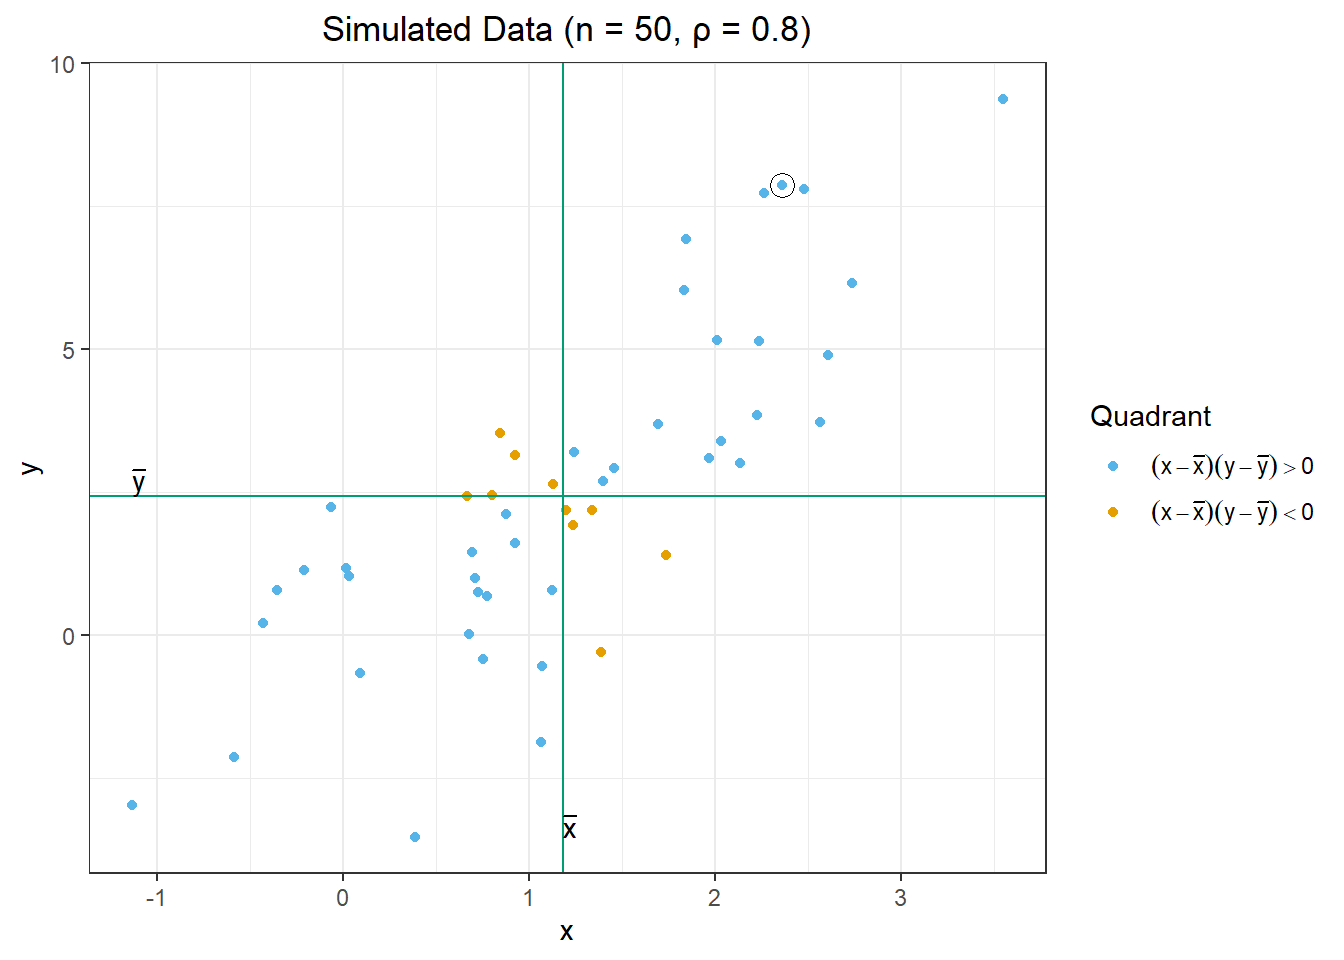
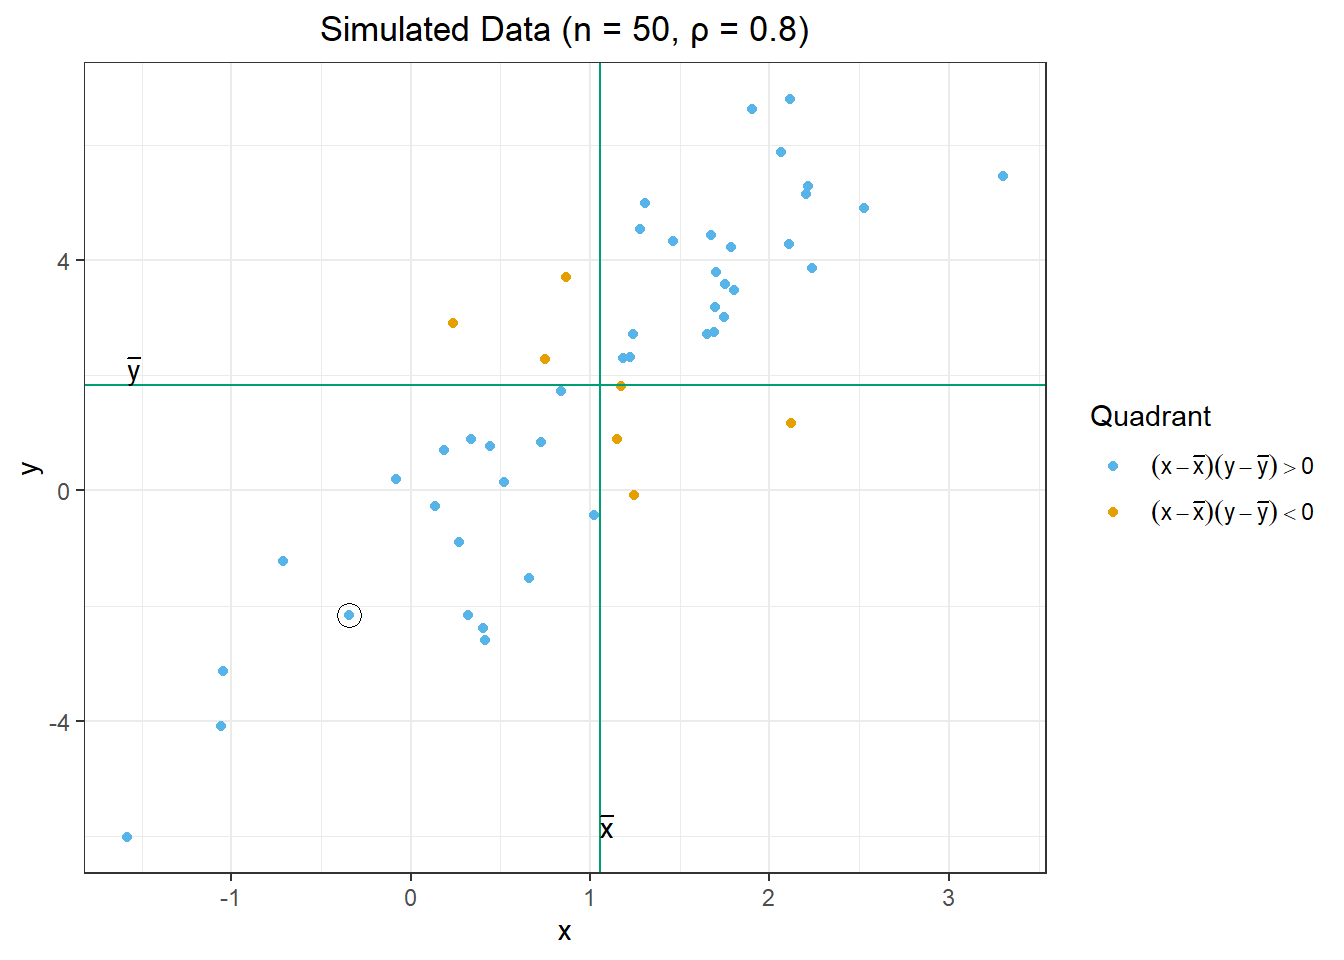
Minor changes to Chapter 2

diff --git a/class_activities/chapter_2_lesson_1_class.html b/class_activities/chapter_2_lesson_1_class.html
@@ -446,7 +446,7 @@ shinyApp(ui = ui, server = server)</code></pre>
 <span id="cb5-21"><a href="#cb5-21" aria-hidden="true" tabindex="-1"></a>  <span class="fu">data.frame</span>() <span class="sc">%&gt;%</span> </span>
 <span id="cb5-22"><a href="#cb5-22" aria-hidden="true" tabindex="-1"></a>  <span class="fu">rename</span>(<span class="at">x =</span> X1, <span class="at">y =</span> X2)</span></code><button title="Copy to Clipboard" class="code-copy-button"><i class="bi"></i></button></pre></div>
 </div>
-<p>The following table illustrates some of the simulated values. The mean of the <span class="math inline">\(x\)</span> values is <span class="math inline">\(\bar x = 1.18\)</span>. The mean of the <span class="math inline">\(y\)</span> values is <span class="math inline">\(\bar y =2.424\)</span>. We will soon use the values <span class="math inline">\((x-\bar x)\)</span>, <span class="math inline">\((x-\bar x)^2\)</span>, <span class="math inline">\((y-\bar y)\)</span>, <span class="math inline">\((y-\bar y)^2\)</span>, and <span class="math inline">\((x-\bar x)(y-\bar y)\)</span>. For convenience, they are included in the table below.</p>
+<p>The following table illustrates some of the simulated values. The mean of the <span class="math inline">\(x\)</span> values is <span class="math inline">\(\bar x = 1.057\)</span>. The mean of the <span class="math inline">\(y\)</span> values is <span class="math inline">\(\bar y =1.833\)</span>. We will soon use the values <span class="math inline">\((x-\bar x)\)</span>, <span class="math inline">\((x-\bar x)^2\)</span>, <span class="math inline">\((y-\bar y)\)</span>, <span class="math inline">\((y-\bar y)^2\)</span>, and <span class="math inline">\((x-\bar x)(y-\bar y)\)</span>. For convenience, they are included in the table below.</p>
 <div class="cell">
 <div class="cell-output-display">
 <table class="table table-sm table-striped small" data-quarto-postprocess="true">
@@ -465,63 +465,63 @@ shinyApp(ui = ui, server = server)</code></pre>
 <tbody>
 <tr class="odd">
 <td style="text-align: center;">1</td>
-<td style="text-align: center;">2.356</td>
-<td style="text-align: center;">7.868</td>
-<td style="text-align: center;">1.176</td>
-<td style="text-align: center;">1.383</td>
-<td style="text-align: center;">5.444</td>
-<td style="text-align: center;">29.641</td>
-<td style="text-align: center;"><span style="     color: #E69F00 !important;">6.402</span></td>
+<td style="text-align: center;">-0.344</td>
+<td style="text-align: center;">-2.154</td>
+<td style="text-align: center;">-1.401</td>
+<td style="text-align: center;">1.963</td>
+<td style="text-align: center;">-3.987</td>
+<td style="text-align: center;">15.897</td>
+<td style="text-align: center;"><span style="     color: #E69F00 !important;">5.586</span></td>
 </tr>
 <tr class="even">
 <td style="text-align: center;">2</td>
-<td style="text-align: center;">1.337</td>
-<td style="text-align: center;">2.181</td>
-<td style="text-align: center;">0.157</td>
-<td style="text-align: center;">0.025</td>
-<td style="text-align: center;">-0.243</td>
-<td style="text-align: center;">0.059</td>
-<td style="text-align: center;"><span style="     color: #56B4E9 !important;">-0.038</span></td>
+<td style="text-align: center;">0.334</td>
+<td style="text-align: center;">0.892</td>
+<td style="text-align: center;">-0.723</td>
+<td style="text-align: center;">0.523</td>
+<td style="text-align: center;">-0.94</td>
+<td style="text-align: center;">0.884</td>
+<td style="text-align: center;"><span style="     color: #E69F00 !important;">0.68</span></td>
 </tr>
 <tr class="odd">
 <td style="text-align: center;">3</td>
-<td style="text-align: center;">0.771</td>
-<td style="text-align: center;">0.677</td>
-<td style="text-align: center;">-0.409</td>
-<td style="text-align: center;">0.167</td>
-<td style="text-align: center;">-1.747</td>
-<td style="text-align: center;">3.052</td>
-<td style="text-align: center;"><span style="     color: #E69F00 !important;">0.714</span></td>
+<td style="text-align: center;">-1.057</td>
+<td style="text-align: center;">-4.085</td>
+<td style="text-align: center;">-2.114</td>
+<td style="text-align: center;">4.469</td>
+<td style="text-align: center;">-5.918</td>
+<td style="text-align: center;">35.02</td>
+<td style="text-align: center;"><span style="     color: #E69F00 !important;">12.51</span></td>
 </tr>
 <tr class="even">
 <td style="text-align: center;">4</td>
-<td style="text-align: center;">-0.208</td>
-<td style="text-align: center;">1.144</td>
-<td style="text-align: center;">-1.388</td>
-<td style="text-align: center;">1.928</td>
-<td style="text-align: center;">-1.28</td>
-<td style="text-align: center;">1.637</td>
-<td style="text-align: center;"><span style="     color: #E69F00 !important;">1.777</span></td>
+<td style="text-align: center;">0.321</td>
+<td style="text-align: center;">-2.164</td>
+<td style="text-align: center;">-0.736</td>
+<td style="text-align: center;">0.542</td>
+<td style="text-align: center;">-3.997</td>
+<td style="text-align: center;">15.975</td>
+<td style="text-align: center;"><span style="     color: #E69F00 !important;">2.942</span></td>
 </tr>
 <tr class="odd">
 <td style="text-align: center;">5</td>
-<td style="text-align: center;">2.032</td>
-<td style="text-align: center;">3.401</td>
-<td style="text-align: center;">0.852</td>
-<td style="text-align: center;">0.726</td>
-<td style="text-align: center;">0.977</td>
-<td style="text-align: center;">0.955</td>
-<td style="text-align: center;"><span style="     color: #E69F00 !important;">0.832</span></td>
+<td style="text-align: center;">1.243</td>
+<td style="text-align: center;">-0.087</td>
+<td style="text-align: center;">0.186</td>
+<td style="text-align: center;">0.035</td>
+<td style="text-align: center;">-1.92</td>
+<td style="text-align: center;">3.685</td>
+<td style="text-align: center;"><span style="     color: #56B4E9 !important;">-0.357</span></td>
 </tr>
 <tr class="even">
 <td style="text-align: center;">6</td>
-<td style="text-align: center;">0.841</td>
-<td style="text-align: center;">3.532</td>
-<td style="text-align: center;">-0.339</td>
-<td style="text-align: center;">0.115</td>
-<td style="text-align: center;">1.108</td>
-<td style="text-align: center;">1.228</td>
-<td style="text-align: center;"><span style="     color: #56B4E9 !important;">-0.376</span></td>
+<td style="text-align: center;">1.749</td>
+<td style="text-align: center;">3.013</td>
+<td style="text-align: center;">0.691</td>
+<td style="text-align: center;">0.478</td>
+<td style="text-align: center;">1.181</td>
+<td style="text-align: center;">1.394</td>
+<td style="text-align: center;"><span style="     color: #E69F00 !important;">0.816</span></td>
 </tr>
 <tr class="odd">
 <td style="text-align: center;">:</td>
@@ -545,43 +545,43 @@ shinyApp(ui = ui, server = server)</code></pre>
 </tr>
 <tr class="odd">
 <td style="text-align: center;">48</td>
-<td style="text-align: center;">2.237</td>
-<td style="text-align: center;">5.144</td>
-<td style="text-align: center;">1.056</td>
-<td style="text-align: center;">1.116</td>
-<td style="text-align: center;">2.72</td>
-<td style="text-align: center;">7.399</td>
-<td style="text-align: center;"><span style="     color: #E69F00 !important;">2.874</span></td>
+<td style="text-align: center;">2.213</td>
+<td style="text-align: center;">5.285</td>
+<td style="text-align: center;">1.155</td>
+<td style="text-align: center;">1.335</td>
+<td style="text-align: center;">3.452</td>
+<td style="text-align: center;">11.916</td>
+<td style="text-align: center;"><span style="     color: #E69F00 !important;">3.988</span></td>
 </tr>
 <tr class="even">
 <td style="text-align: center;">49</td>
-<td style="text-align: center;">-0.062</td>
-<td style="text-align: center;">2.242</td>
-<td style="text-align: center;">-1.243</td>
-<td style="text-align: center;">1.544</td>
-<td style="text-align: center;">-0.182</td>
-<td style="text-align: center;">0.033</td>
-<td style="text-align: center;"><span style="     color: #E69F00 !important;">0.226</span></td>
+<td style="text-align: center;">1.697</td>
+<td style="text-align: center;">3.183</td>
+<td style="text-align: center;">0.639</td>
+<td style="text-align: center;">0.409</td>
+<td style="text-align: center;">1.35</td>
+<td style="text-align: center;">1.823</td>
+<td style="text-align: center;"><span style="     color: #E69F00 !important;">0.863</span></td>
 </tr>
 <tr class="odd">
 <td style="text-align: center;">50</td>
-<td style="text-align: center;">1.453</td>
-<td style="text-align: center;">2.925</td>
-<td style="text-align: center;">0.273</td>
-<td style="text-align: center;">0.075</td>
-<td style="text-align: center;">0.501</td>
-<td style="text-align: center;">0.251</td>
-<td style="text-align: center;"><span style="     color: #E69F00 !important;">0.137</span></td>
+<td style="text-align: center;">3.3</td>
+<td style="text-align: center;">5.462</td>
+<td style="text-align: center;">2.242</td>
+<td style="text-align: center;">5.027</td>
+<td style="text-align: center;">3.629</td>
+<td style="text-align: center;">13.168</td>
+<td style="text-align: center;"><span style="     color: #E69F00 !important;">8.136</span></td>
 </tr>
 <tr class="even">
 <td style="text-align: center;">sum</td>
-<td style="text-align: center;">59.012</td>
-<td style="text-align: center;">121.201</td>
+<td style="text-align: center;">52.865</td>
+<td style="text-align: center;">91.637</td>
 <td style="text-align: center;">0</td>
-<td style="text-align: center;">46.38</td>
+<td style="text-align: center;">48.883</td>
 <td style="text-align: center;">0</td>
-<td style="text-align: center;">382.471</td>
-<td style="text-align: center;"><span style="     color: #E69F00 !important;">105.596</span></td>
+<td style="text-align: center;">418.308</td>
+<td style="text-align: center;"><span style="     color: #E69F00 !important;">122.791</span></td>
 </tr>
 </tbody>
 </table>
@@ -606,9 +606,9 @@ Cov(x,y)
 =
 \frac{\sum\limits_{i=1}^n (x - \bar x)(y - \bar y)}{n-1}
 =
-\frac{105.596}{50 - 1}
+\frac{122.791}{50 - 1}
 =
-2.155
+2.506
 \]</span></p>
 <p>You can think of this as an “average” of the <span class="math inline">\((x - \bar x)(y - \bar y)\)</span> values. The only difference is that we divide by <span class="math inline">\(n-1\)</span> instead of <span class="math inline">\(n\)</span>.</p>
 <ul>
@@ -623,38 +623,38 @@ s_x &amp;= \sqrt{ \frac{\sum\limits_{i=1}^n (x - \bar x)^2}{n-1} }
 =
 \sqrt{
 \frac{
-46.38
+48.883
 }{
 50-1
 }
 }
 =
-0.973
+0.999
 \\
 s_y &amp;= \sqrt{ \frac{\sum\limits_{i=1}^n (y - \bar y)^2}{n-1} }
 =
 \sqrt{
 \frac{
-382.471
+418.308
 }{
 50-1
 }
 }
 =
-2.794
+2.922
 \end{align*}
 \]</span></p>
 <p>The sample correlation coefficient is: <span class="math display">\[
 r = \frac{\sum\limits_{i=1}^n (x - \bar x)(y - \bar y)}{\sqrt{\sum\limits_{i=1}^n (x - \bar x)^2} \sqrt{\sum\limits_{i=1}^n (y - \bar y)^2}}
 =
 \frac{
-105.596
+122.791
 }{
-\sqrt{ 46.38}
-\sqrt{ 382.471}
+\sqrt{ 48.883}
+\sqrt{ 418.308}
 }
 =
-0.793
+0.859
 \]</span></p>
 <ul>
 <li><p>What do you get if you multiply the equations for <span class="math inline">\(r\)</span>, <span class="math inline">\(s_x\)</span>, and <span class="math inline">\(s_y\)</span> together? <span class="math display">\[
@@ -678,13 +678,13 @@ r = \frac{\sum\limits_{i=1}^n (x - \bar x)(y - \bar y)}{\sqrt{\sum\limits_{i=1}^
 $$
 Cov(x,y) = r \cdot s_x \cdot s_y 
 =
-0.793
+0.859
 \cdot 
-0.973
+0.999
 \cdot 
-2.794
+2.922
 =
-2.155
+2.506
 $$
  -->
 </section>
